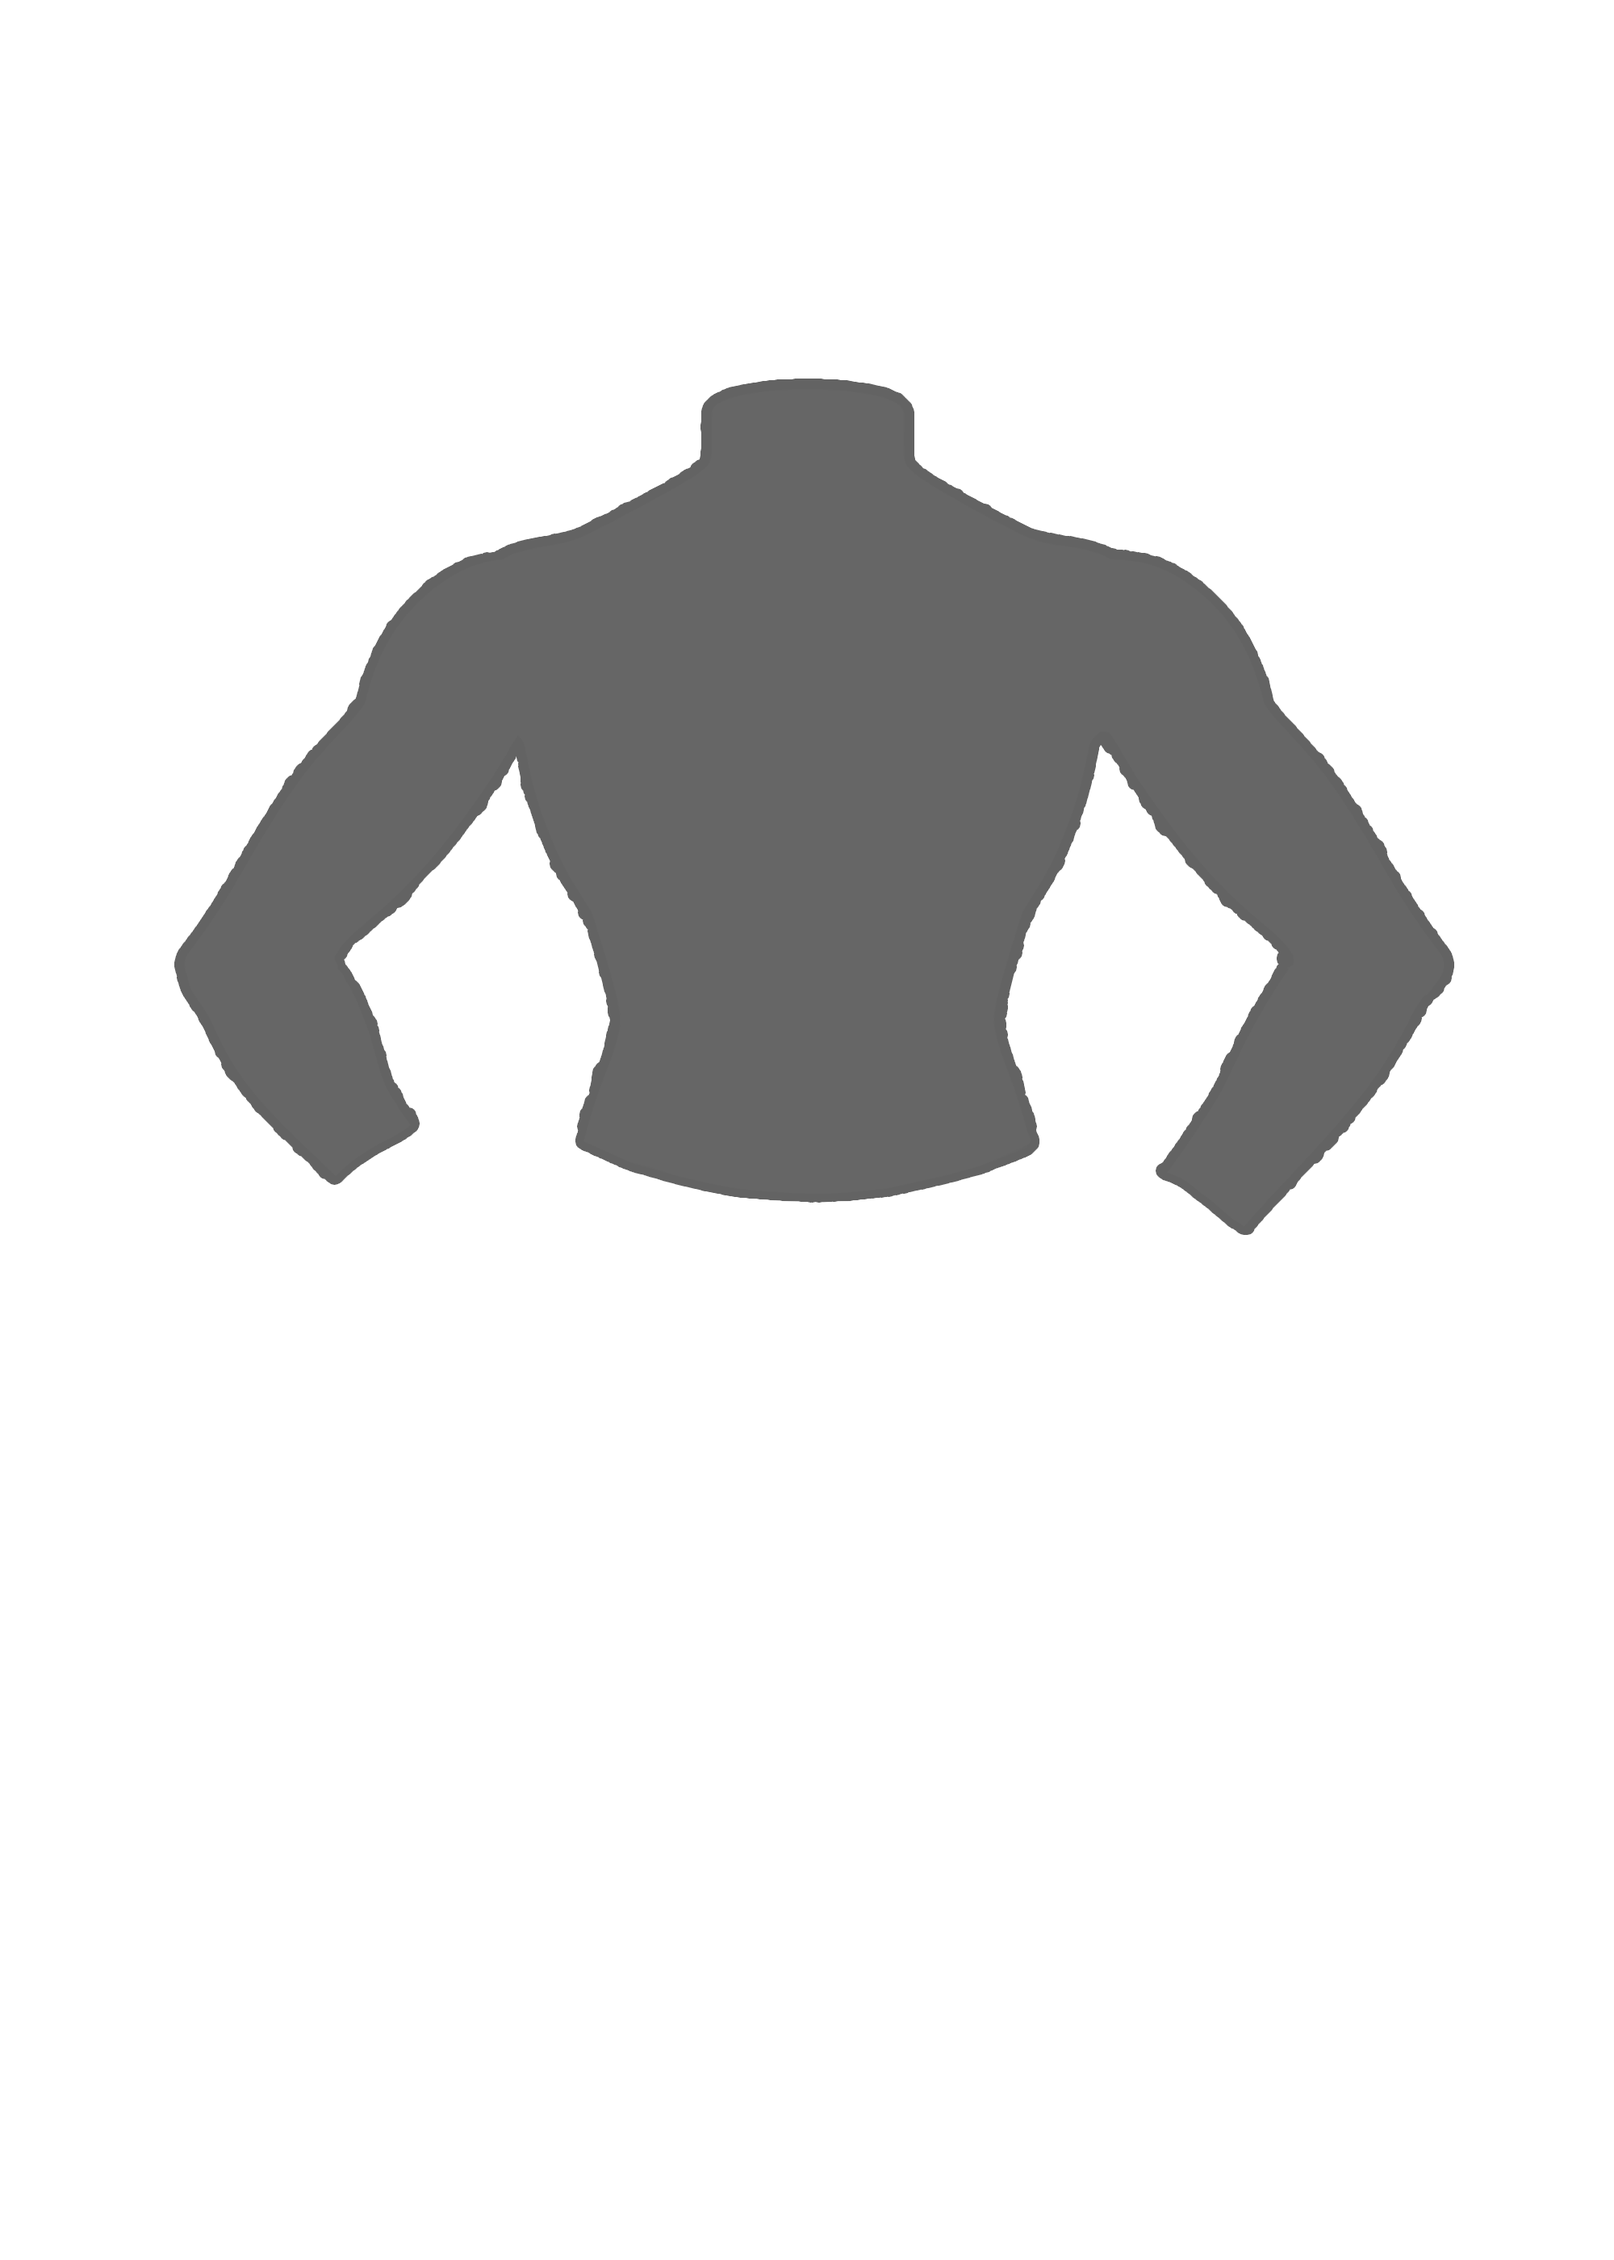
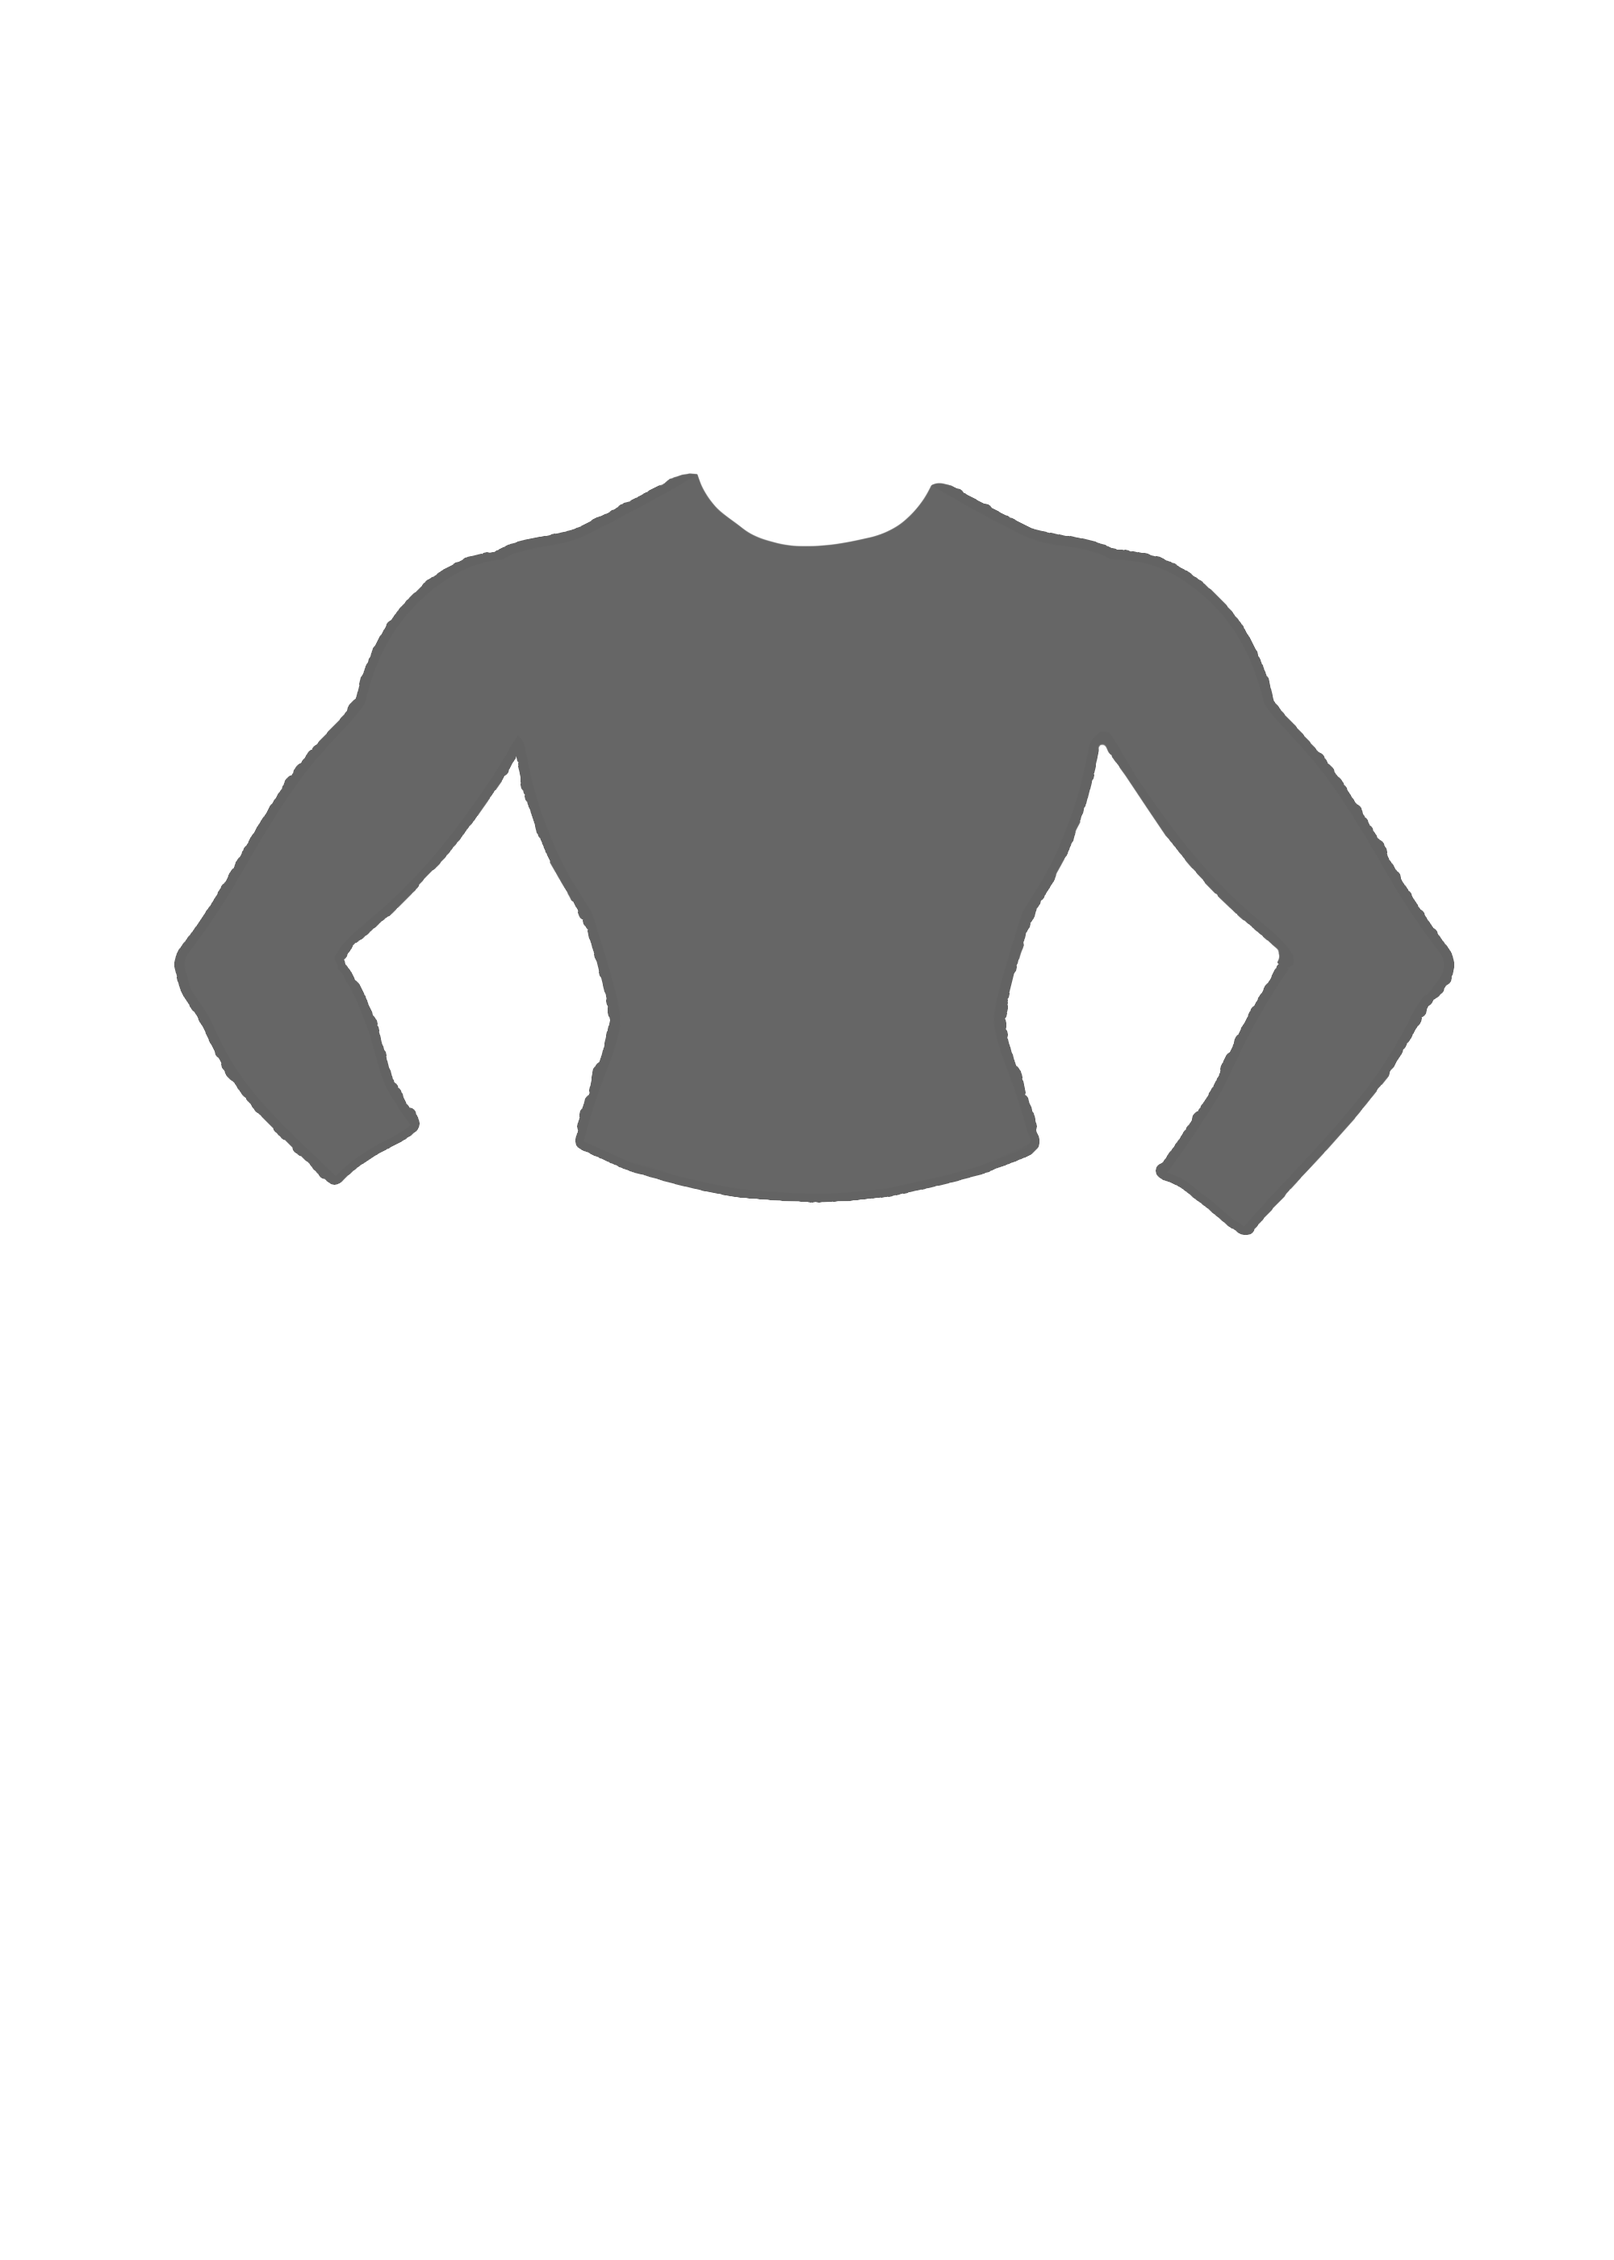
Wear silhouettes: round-neck long top (turtleneck kept), note on open tops
Claude-Session: https://claude.ai/code/session_01XtpZhZabEYUcJEQKQgYpHe

Changed region(s): [[0.434, 0.1554, 0.589, 0.2486]]

diff --git a/CLAUDE.md b/CLAUDE.md
@@ -78,4 +78,4 @@ Before release, look at the set on the hero next to the edit: the colours must m
 A new piece of clothing keeps the shape of an existing one and only gets a new texture/design: take the template's own layer
 (`tools/rig/source/wear/<template>.png` — trousers: `pants-vadim` (the artist's own shape — new trousers follow it), `pants-komandate`, `pants-black`; shoes: `sneakers-chunky`; tee: `tee-white`, …),
 recolour/redraw it by an image edit of that layer alone, keep its alpha (outline) exactly, and reuse its `WEAR_FIT` box. No new cut-outs from the hero.
-The artist's silhouettes on the hero's canvas (2000×2800, a bit wider than the body) are in `tools/rig/source/wear/_shape/` — `top-long.png` (long-sleeve top / turtleneck), `pants.png`, `shoes.png`: for a NEW shape, draw the design onto the silhouette (image edit of it, ≤1024 px, quality low/medium) and cut the result by the silhouette's alpha.
+The artist's silhouettes on the hero's canvas (2000×2800, a bit wider than the body) are in `tools/rig/source/wear/_shape/` — `top-long.png` (long-sleeve top, round neck; `top-turtleneck.png` the old one), `pants.png`, `shoes.png`: for a NEW shape, draw the design onto the silhouette (image edit of it, ≤1024 px, quality low/medium) and cut the result by the silhouette's alpha grown by 6–8 px. Tops are mostly worn OPEN so the tattoos show: ask for the open gap to be flat magenta #FF00FF and key it out.
